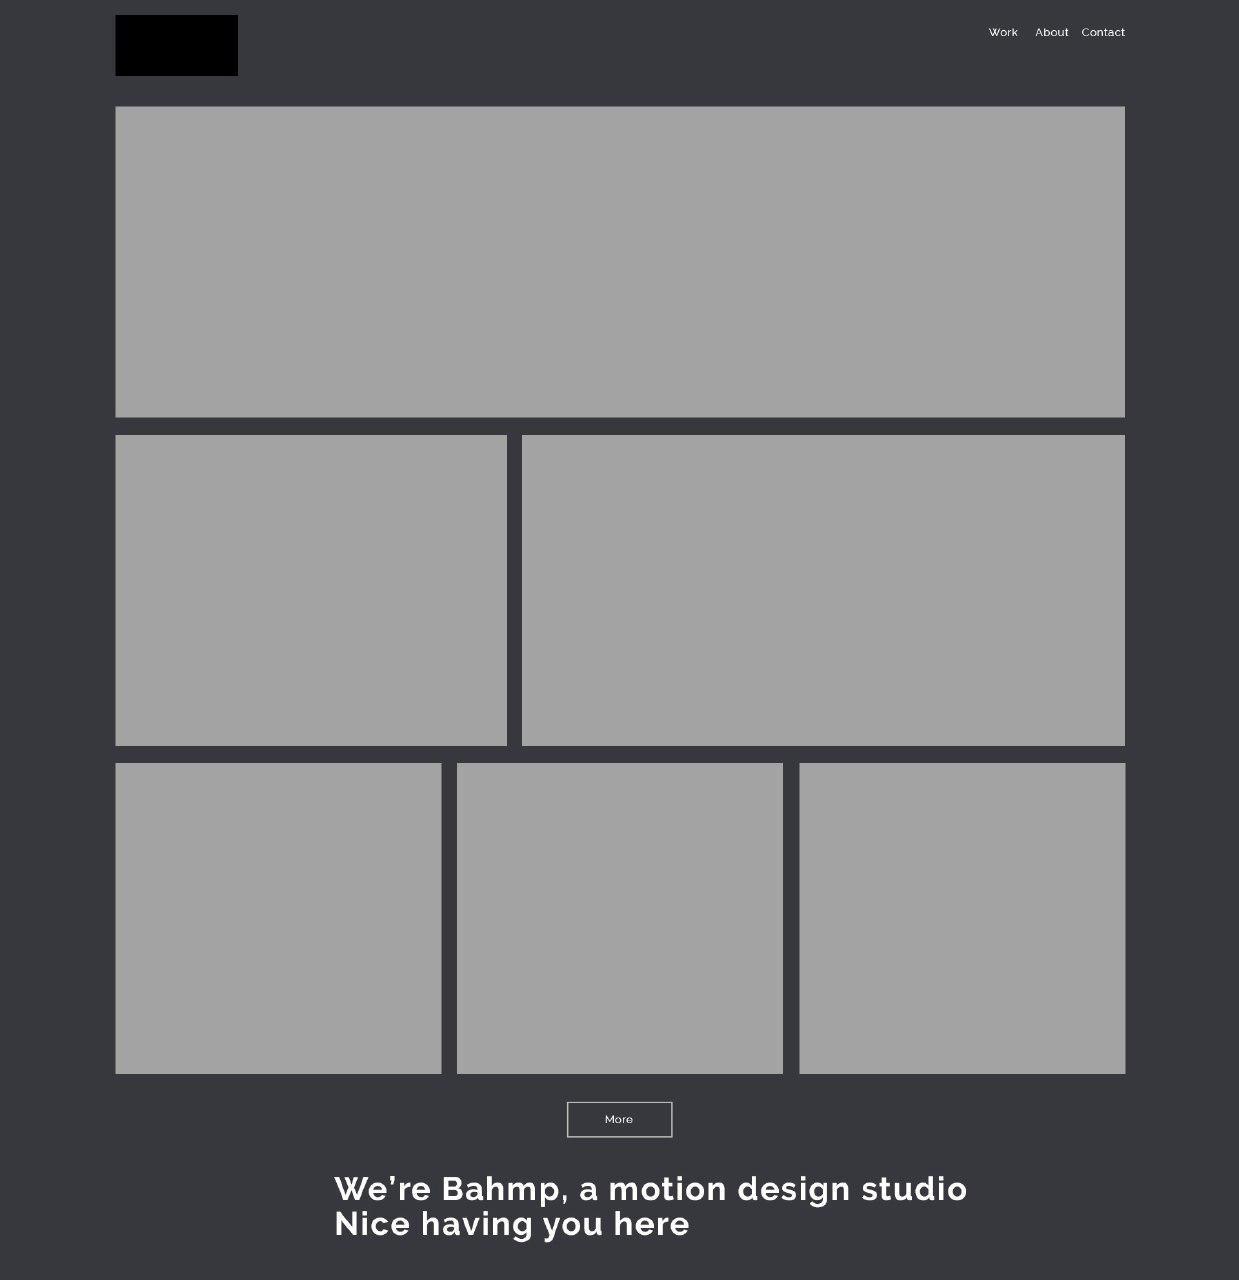
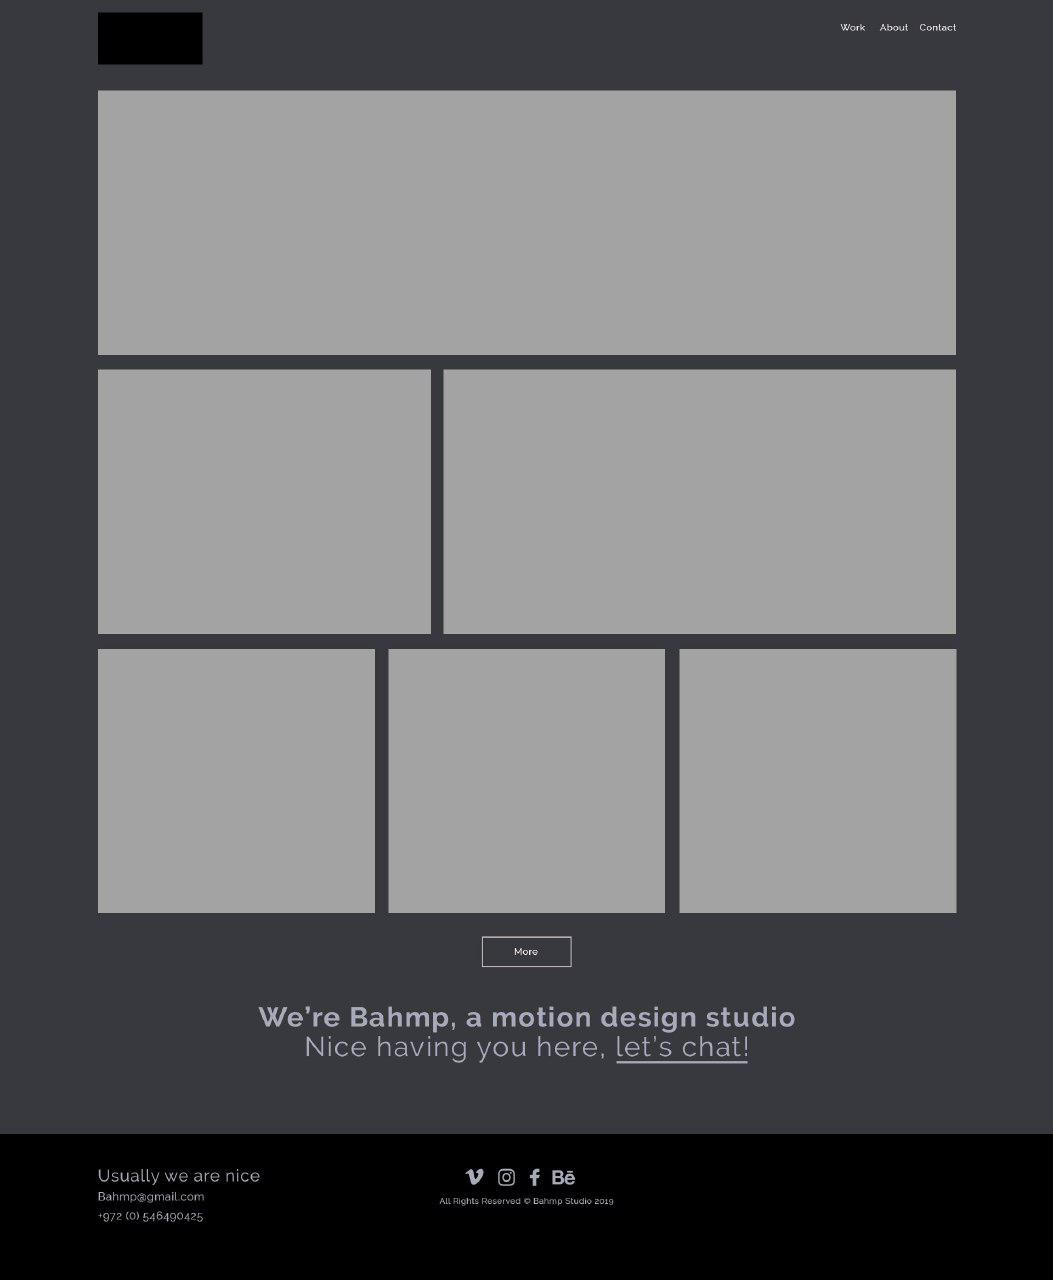
add sticky upper menu, and added footer content

diff --git a/html/index.html b/html/index.html
@@ -6,16 +6,16 @@
     <title>Bahmp Studio</title>
   </head>
   <body>
+      <div class="headerContainer">
+          <div class="logoContainer">
+            <h1><a href="./index.html">Bahmp Studio</a></h1> 
+          </div><div class="menuContainer">
+              <a href="./projects.html" class="menuButton">Projects</a>
+              <a href="./about.html" class="menuButton">About</a>
+              <a href="./contact.html" class="menuButton">Contact</a>
+            </div>
+      </div>
     <div class="bodyContainer">
-        <div class="headerContainer">
-            <div class="logoContainer">
-              <h1><a href="./index.html">Bahmp Studio</a></h1> 
-            </div><div class="menuContainer">
-                <a href="./projects.html" class="menuButton">Projects</a>
-                <a href="./about.html" class="menuButton">About</a>
-                <a href="./contact.html" class="menuButton">Contact</a>
-              </div>
-        </div>
       <div class="HomeGalleryContainer">
         <div class="HomeGalleryRow">
           <div id="HomeGalleryEntryR1C1" class="HomeGalleryEntry">
@@ -47,14 +47,26 @@
         </div>
     <a href="./projects.html"><button class="moreButton">SHOW ME MORE</button></a>
     <div class="WelcomeText">
-        <h1>We are Bahmp Studio</h1>
-        <h2>Thanks for stopping by, <a href="./contact.html">let's chat! 🗨</a></h2>
-      </div>
+        <h1>We're Bahmp, a motion design studio</h1>
+        <h2>Nice having you here, <a href="./contact.html">let's chat!</a></h2>
+    </div>
     </div>
     <div class="Footer">
-      <div class="CopyrightText">
-        <p>Copyright © 2019 Bahmp Studio</p>
-      </div>
+        <div class="FooterContact">
+          <h3>Usually we are nice</h3>
+          <p>bahmp@gmail.com</p>
+          <p>+972 (0) 546490425</p>
+        </div>
+        <div class="FooterCentral">
+          <div class="FooterIcons">
+            <img class="SocialMediaIcon" src="./images/socialicons/vimeo.svg" alt="Vimeo">
+            <img class="SocialMediaIcon" src="./images/socialicons/instagram.svg" alt="Instagram">
+            <img class="SocialMediaIcon" src="./images/socialicons/facebook.svg" alt="Facebook">
+            <img class="SocialMediaIcon" src="./images/socialicons/behance.svg" alt="Behance">
+          </div>
+          <div class="FooterCopyright">Copyright © 2019 Bahmp Studio</div>
+        </div>
+        <div class="FooterRight"></div>
     </div>
   </body>
 </html>

diff --git a/html/projects.html b/html/projects.html
@@ -6,16 +6,16 @@
     <title>Bahmp Studio</title>
   </head>
   <body>
+    <div class="headerContainer">
+        <div class="logoContainer">
+          <h1><a href="./index.html">Bahmp Studio</a></h1> 
+        </div><div class="menuContainer">
+            <a href="./projects.html" class="menuButton">Projects</a>
+            <a href="./about.html" class="menuButton">About</a>
+            <a href="./contact.html" class="menuButton">Contact</a>
+          </div>
+    </div>
     <div class="bodyContainer">
-        <div class="headerContainer">
-            <div class="logoContainer">
-              <h1><a href="./index.html">Bahmp Studio</a></h1> 
-            </div><div class="menuContainer">
-              <a href="./projects.html" class="menuButton">Projects</a>
-              <a href="./about.html" class="menuButton">About</a>
-              <a href="./contact.html" class="menuButton">Contact</a>
-            </div>
-        </div>
       <div class="ProjectsGalleryContainer">
         <div class="ProjectsGalleryRow">
             <div class="ProjectsGalleryEntry">
@@ -60,9 +60,21 @@
       </div>
     </div>
     <div class="Footer">
-        <div class="CopyrightText">
-          <p>Copyright © 2019 Bahmp Studio</p>
+        <div class="FooterContact">
+          <h3>Usually we are nice</h3>
+          <p>bahmp@gmail.com</p>
+          <p>+972 (0) 546490425</p>
         </div>
-      </div>
+        <div class="FooterCentral">
+          <div class="FooterIcons">
+            <img class="SocialMediaIcon" src="./images/socialicons/vimeo.svg" alt="Vimeo">
+            <img class="SocialMediaIcon" src="./images/socialicons/instagram.svg" alt="Instagram">
+            <img class="SocialMediaIcon" src="./images/socialicons/facebook.svg" alt="Facebook">
+            <img class="SocialMediaIcon" src="./images/socialicons/behance.svg" alt="Behance">
+          </div>
+          <div class="FooterCopyright">Copyright © 2019 Bahmp Studio</div>
+        </div>
+        <div class="FooterRight"></div>
+    </div>
   </body>
 </html>

diff --git a/html/css/style.css b/html/css/style.css
@@ -33,6 +33,9 @@ a:active {
 }
 
 body {
+  display: flex;
+  align-items: center;
+  flex-direction: column;
   text-align: center;
   background-color: rgb(40, 40, 40);
   color: gray;
@@ -47,10 +50,13 @@ body {
 }
 
 .headerContainer {
+  position: fixed;
+  background-color: rgb(40, 40, 40);
   width: 100%;
   display: flex;
-  margin: 0% 0% 2% 0%;
-  padding: 0 0.75% 0 0.75%;
+  margin: auto;
+  padding: 1% 15.4% 1% 15.4%;
+  z-index: 10;
 }
 
 .logoContainer {
@@ -198,7 +204,7 @@ body {
   border: 2px solid gray;
   color: gray;
   padding: 10px 50px 10px 50px;
-  margin: 3% 0% 0% 0%;
+  margin: 2.5% 0% 0% 0%;
   transition: border 0.15s, color 0.15s;
 }
 
@@ -212,15 +218,32 @@ body {
 }
 
 .Footer {
+  font-size: 20px;
   background-color: rgba(25, 25, 25);
-  padding: 2% 16% 1% 16%;
+  padding: 3% 15.4% 4% 15.4%;
   margin: 3% 0 0% 0;
   display: flex;
+  flex-direction: row;
+  align-self: stretch;
+}
+
+.FooterContact {
+  display: flex;
   flex-direction: column;
+  align-items: flex-start;
+  flex: 1;
+}
+
+.FooterCentral {
+  flex: 1;
+}
+
+.FooterRight {
+  flex: 1;
 }
 
 .WelcomeText {
-  margin: 10% 0 5% 0;
+  margin: 4.5% 0 2% 0;
   line-height: 1.5;
   display: flex;
   flex: 1;
@@ -229,21 +252,30 @@ body {
 }
 
 .WelcomeText h1 {
-  font-size: 50px;
+  font-size: 43px;
 }
 
 .WelcomeText h2 {
   font-size: 30px;
 }
 
-.CopyrightText {
-  margin: 3% 0 0 0;
+.WelcomeText a {
+  text-underline-position: under;
+  text-decoration: underline;
+}
+
+.FooterCopyright {
   display: flex;
-  flex-direction: row;
   flex: 1;
-  align-items: flex-end;
-  justify-content: flex-start;
+  margin: 1%;
+  align-items: center;
+  justify-content: center;
   font-size: 13px;
+}
+
+.SocialMediaIcon {
+  opacity: 0.4;
+  margin: 1%;
 }
 
 /* specific for projects page */
